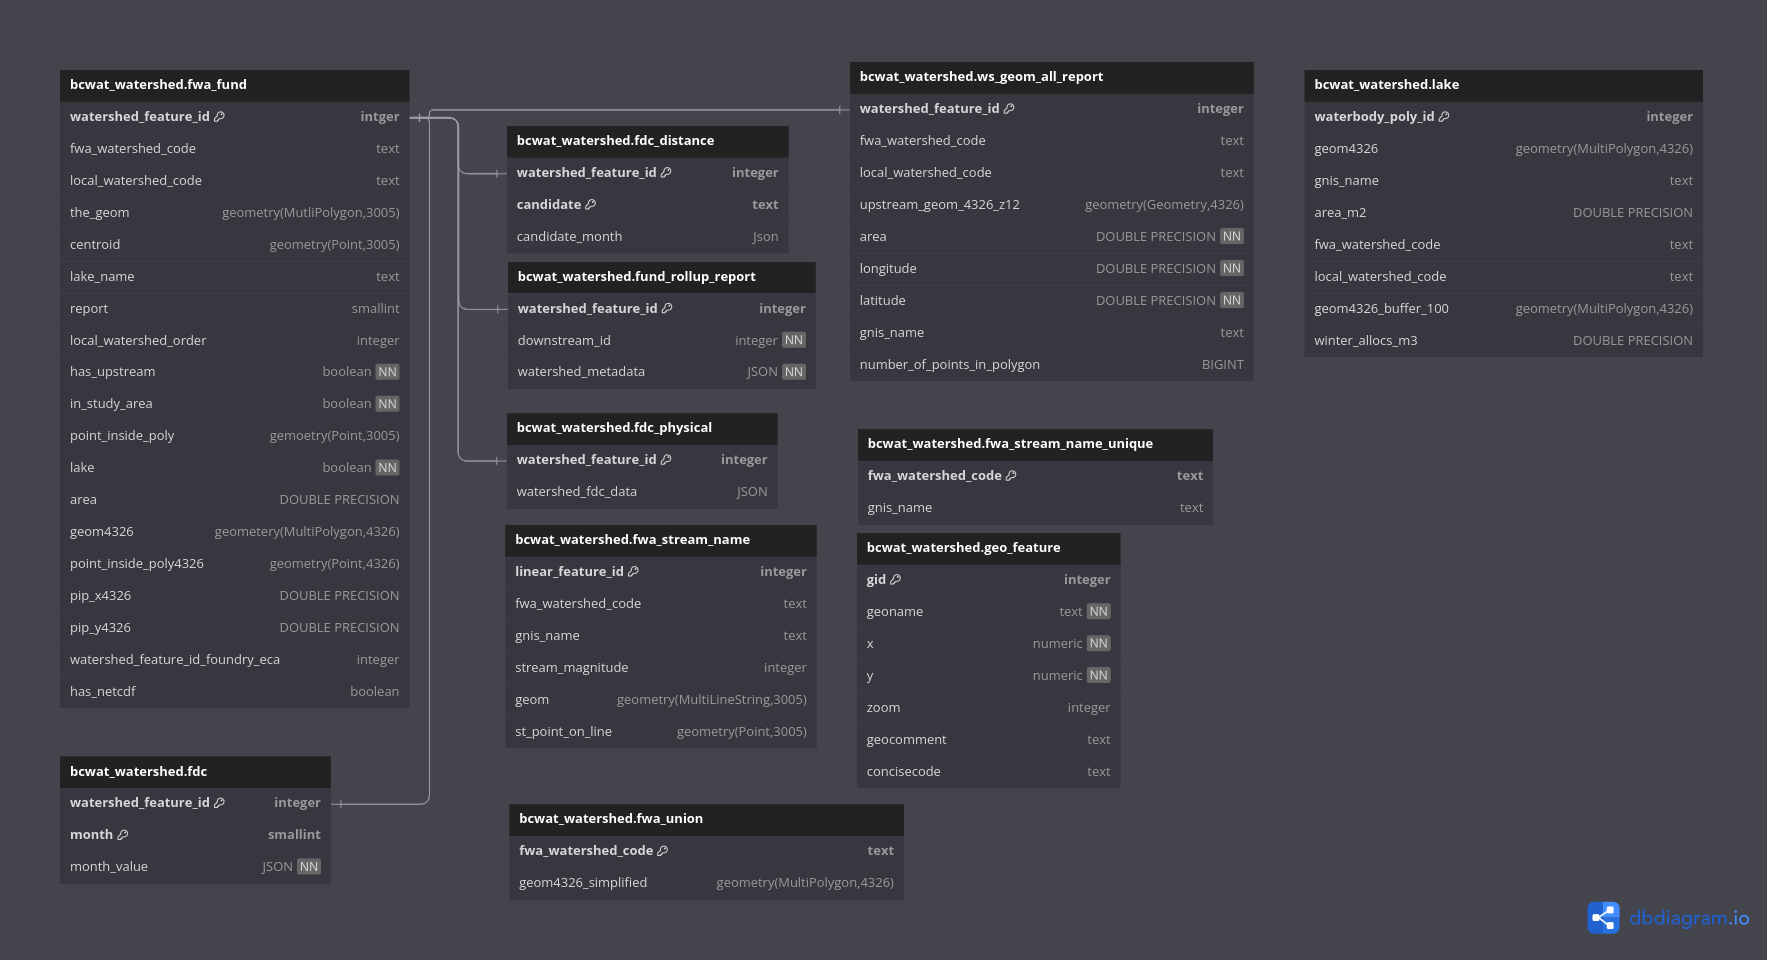
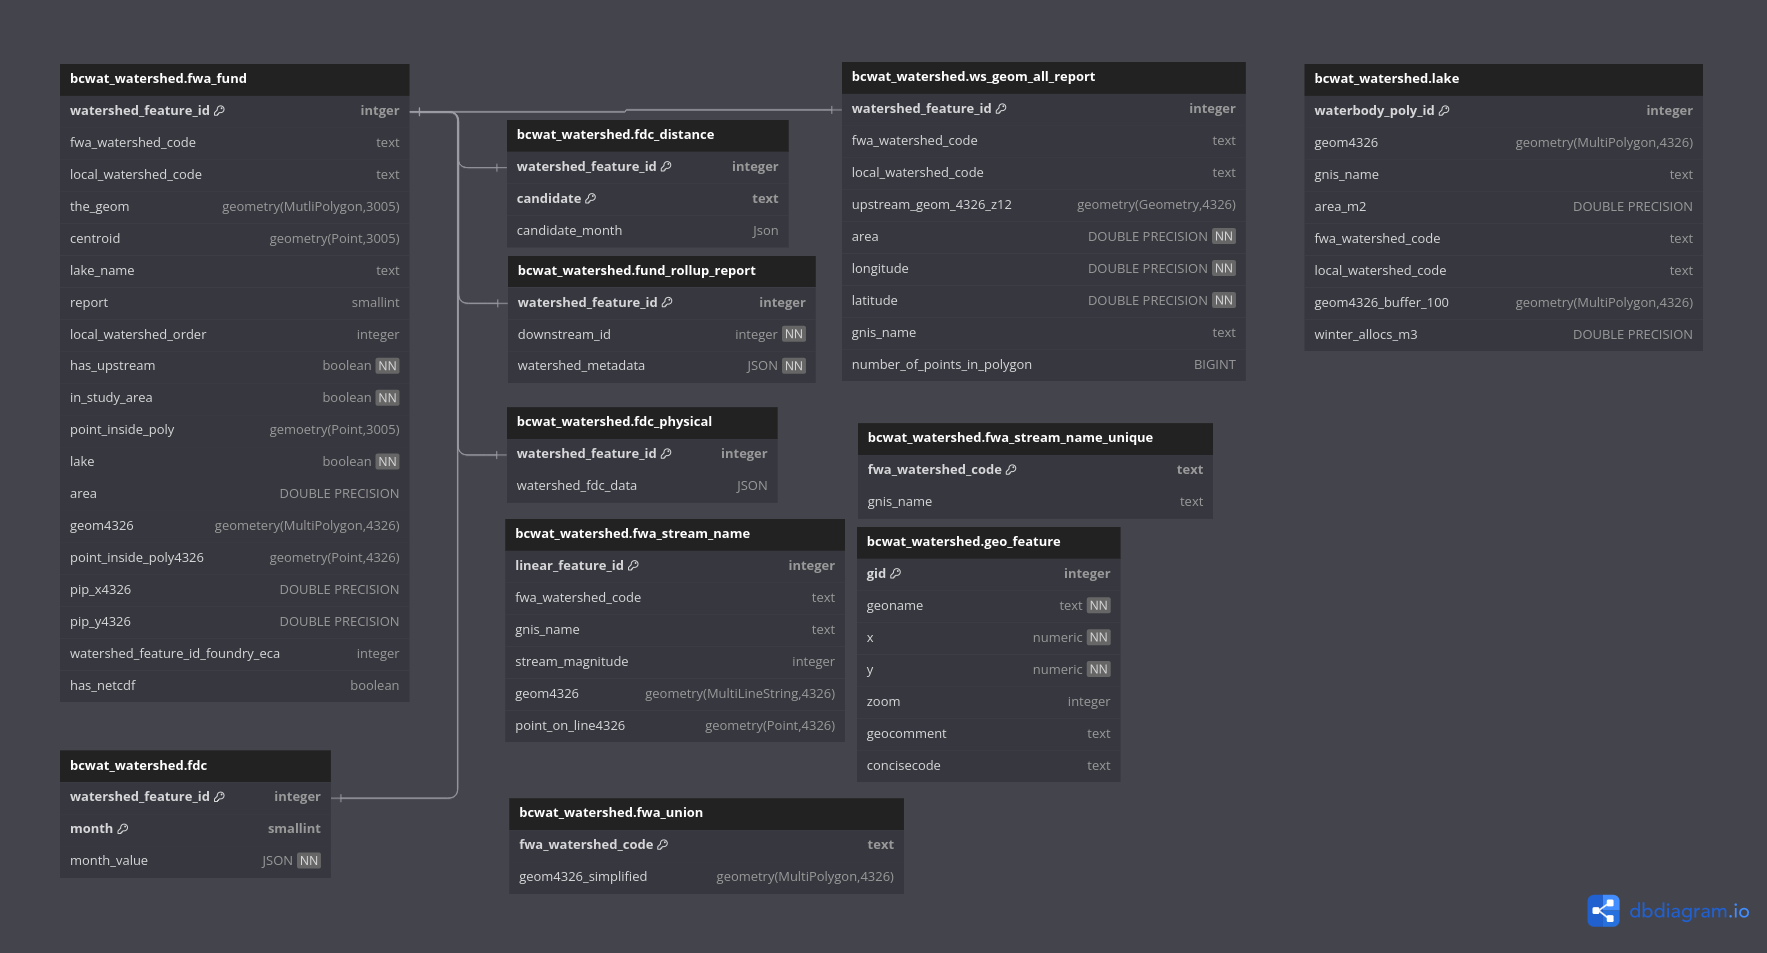
changes to the erd and fix to queries

diff --git a/backend/database_initialization/queries/bcwat_watershed_data.py b/backend/database_initialization/queries/bcwat_watershed_data.py
@@ -1,6 +1,21 @@
-fwa_stream_name_query = '''SELECT * FROM base.fwa_stream_names'''
+fwa_stream_name_query = '''
+    SELECT
+        linear_feature_id,
+        fwa_watershed_code,
+        gnis_name,
+        stream_maginitude,
+        ST_Transform(geom, 4326) AS geom4326,
+        ST_Transform(st_point_on_line, 4326) AS point_on_line4326
+    FROM
+        base.fwa_stream_names;
+'''
 
-fwa_stream_name_unique_query = ''' SELECT * FROM base.fwa_stream_names_unique'''
+fwa_stream_name_unique_query = '''
+    SELECT
+        *
+    FROM
+        base.fwa_stream_names_unique;
+'''
 
 fwa_fund_query = '''
     WITH unioned AS (

diff --git a/backend/database_initialization/queries/bcwat_watershed_erd_diagram.py b/backend/database_initialization/queries/bcwat_watershed_erd_diagram.py
@@ -106,8 +106,8 @@ bcwat_ws_query = '''
     "fwa_watershed_code" text,
     "gnis_name" text,
     "stream_magnitude" integer,
-    "geom" geometry(MultiLineString,3005),
-    "point_on_line" geometry(Point,3005)
+    "geom4326" geometry(MultiLineString,4326),
+    "point_on_line4326" geometry(Point,4326)
     );
 
     CREATE TABLE "bcwat_ws"."fwa_stream_name_unique" (
